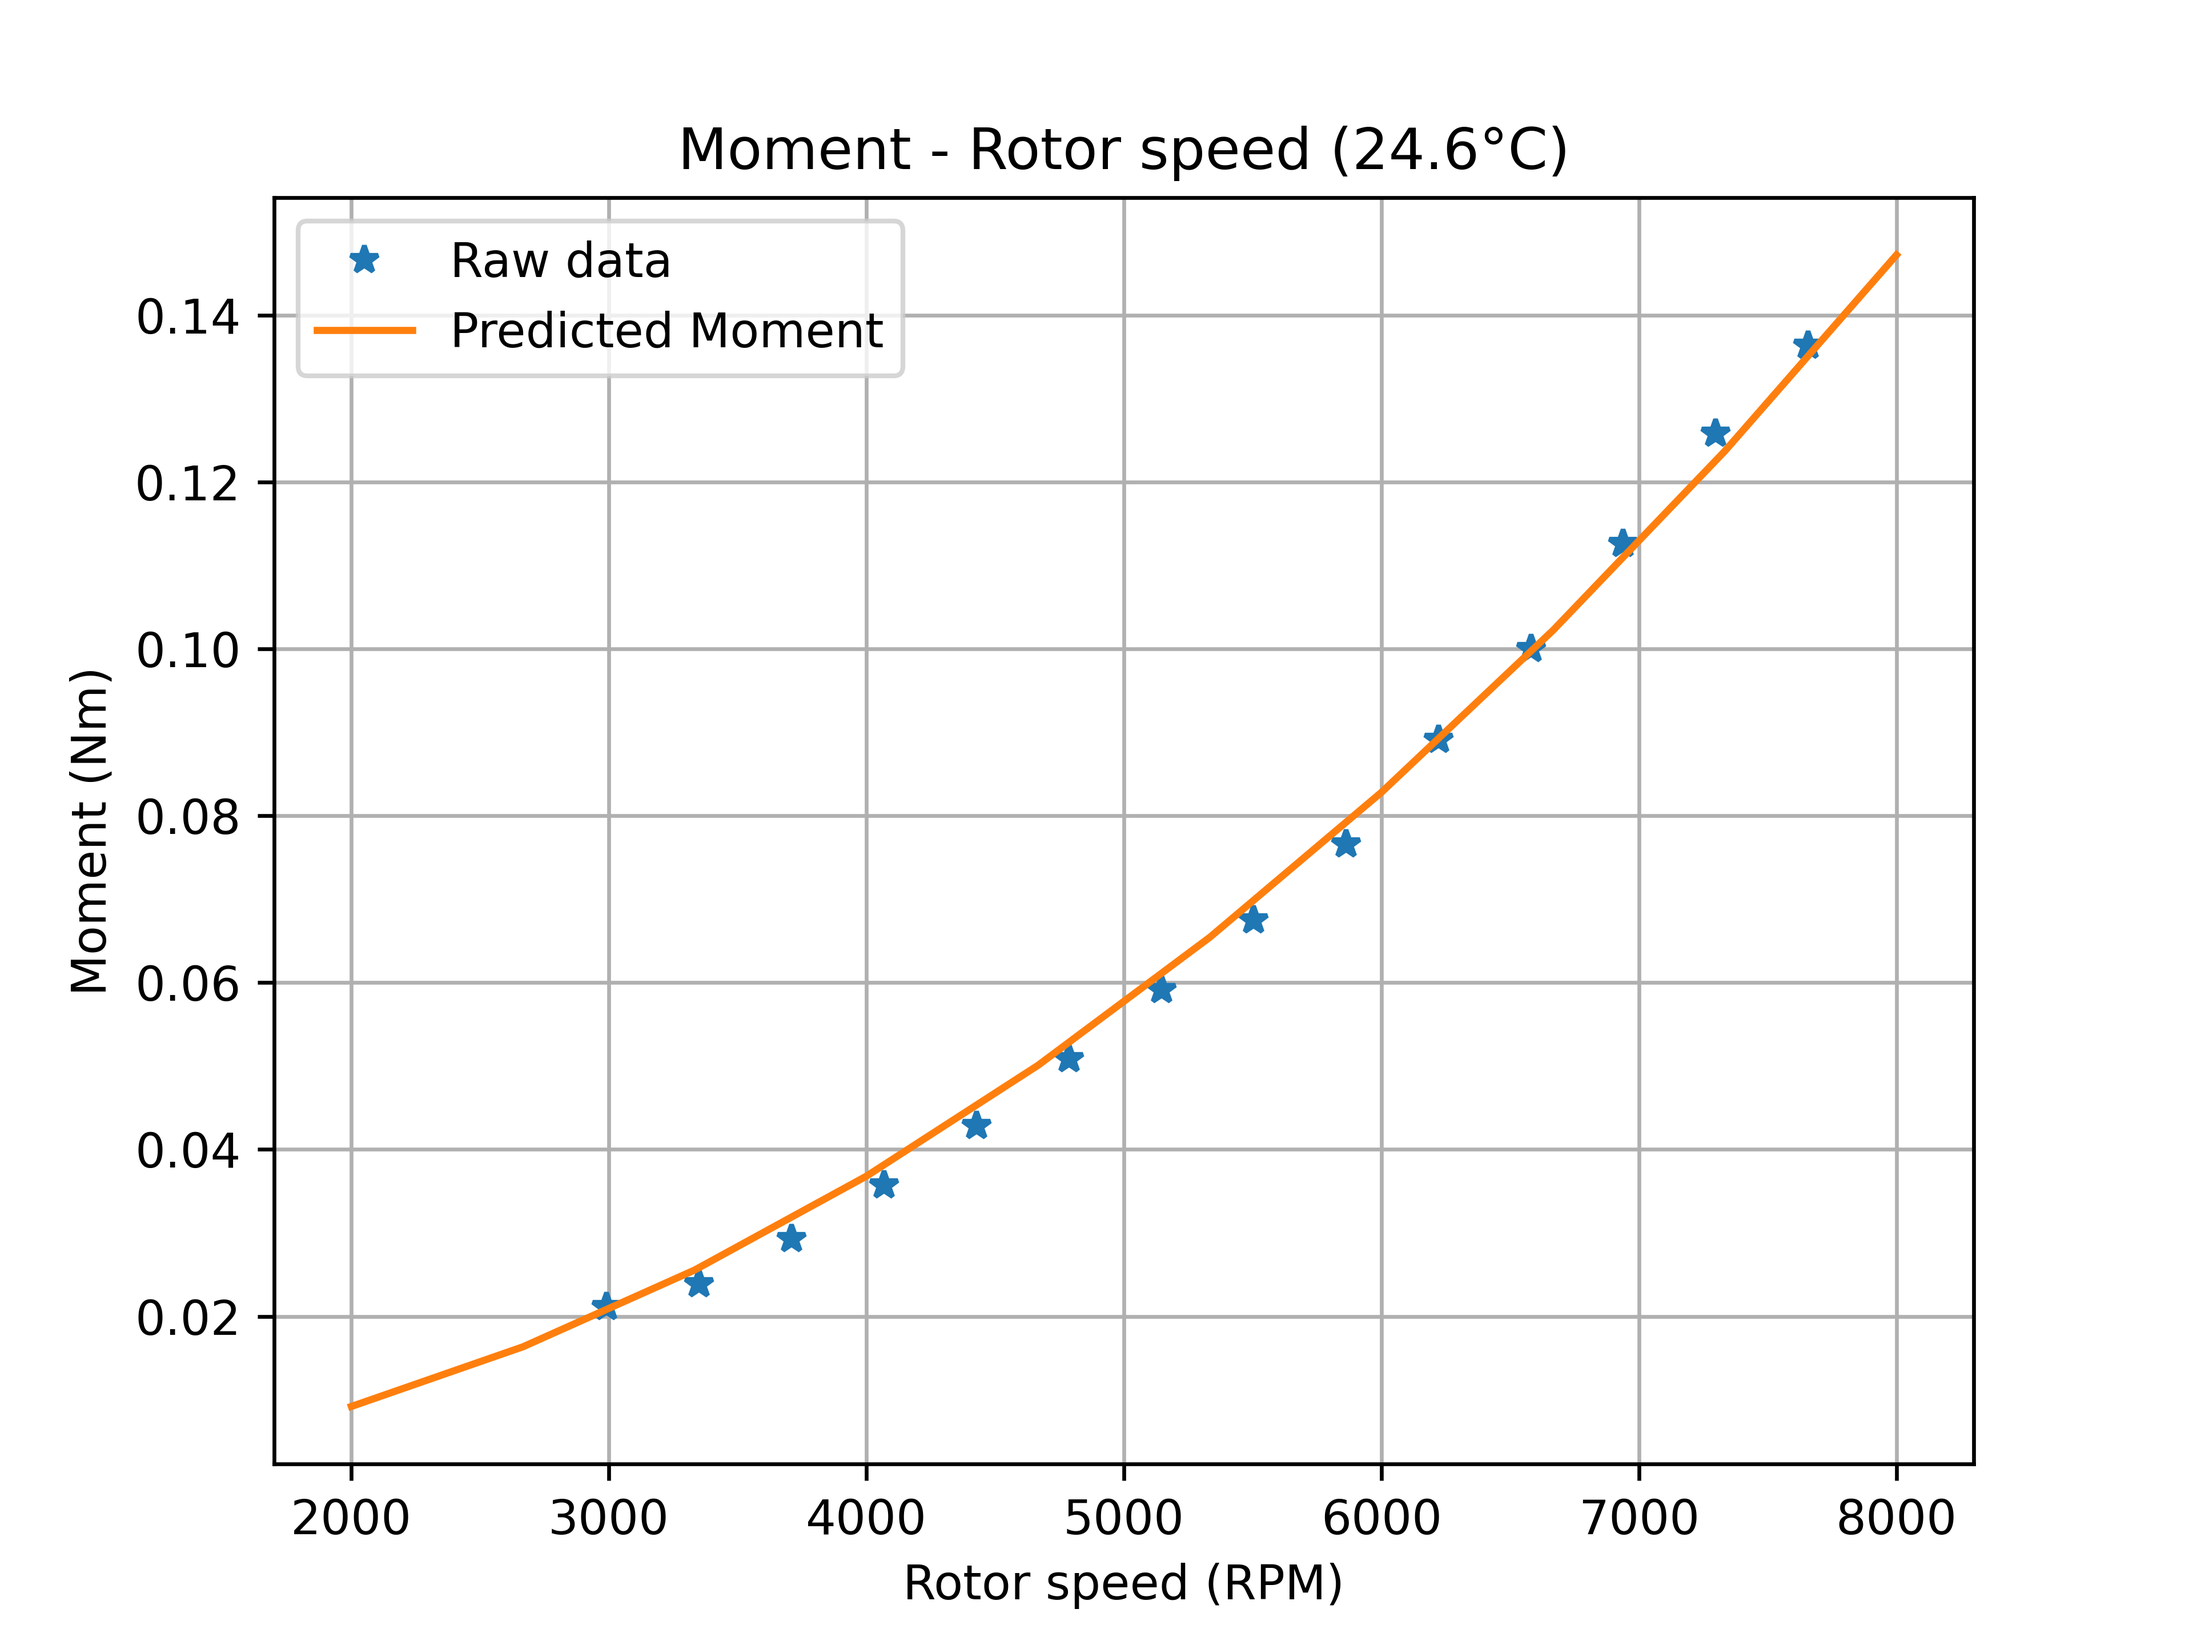
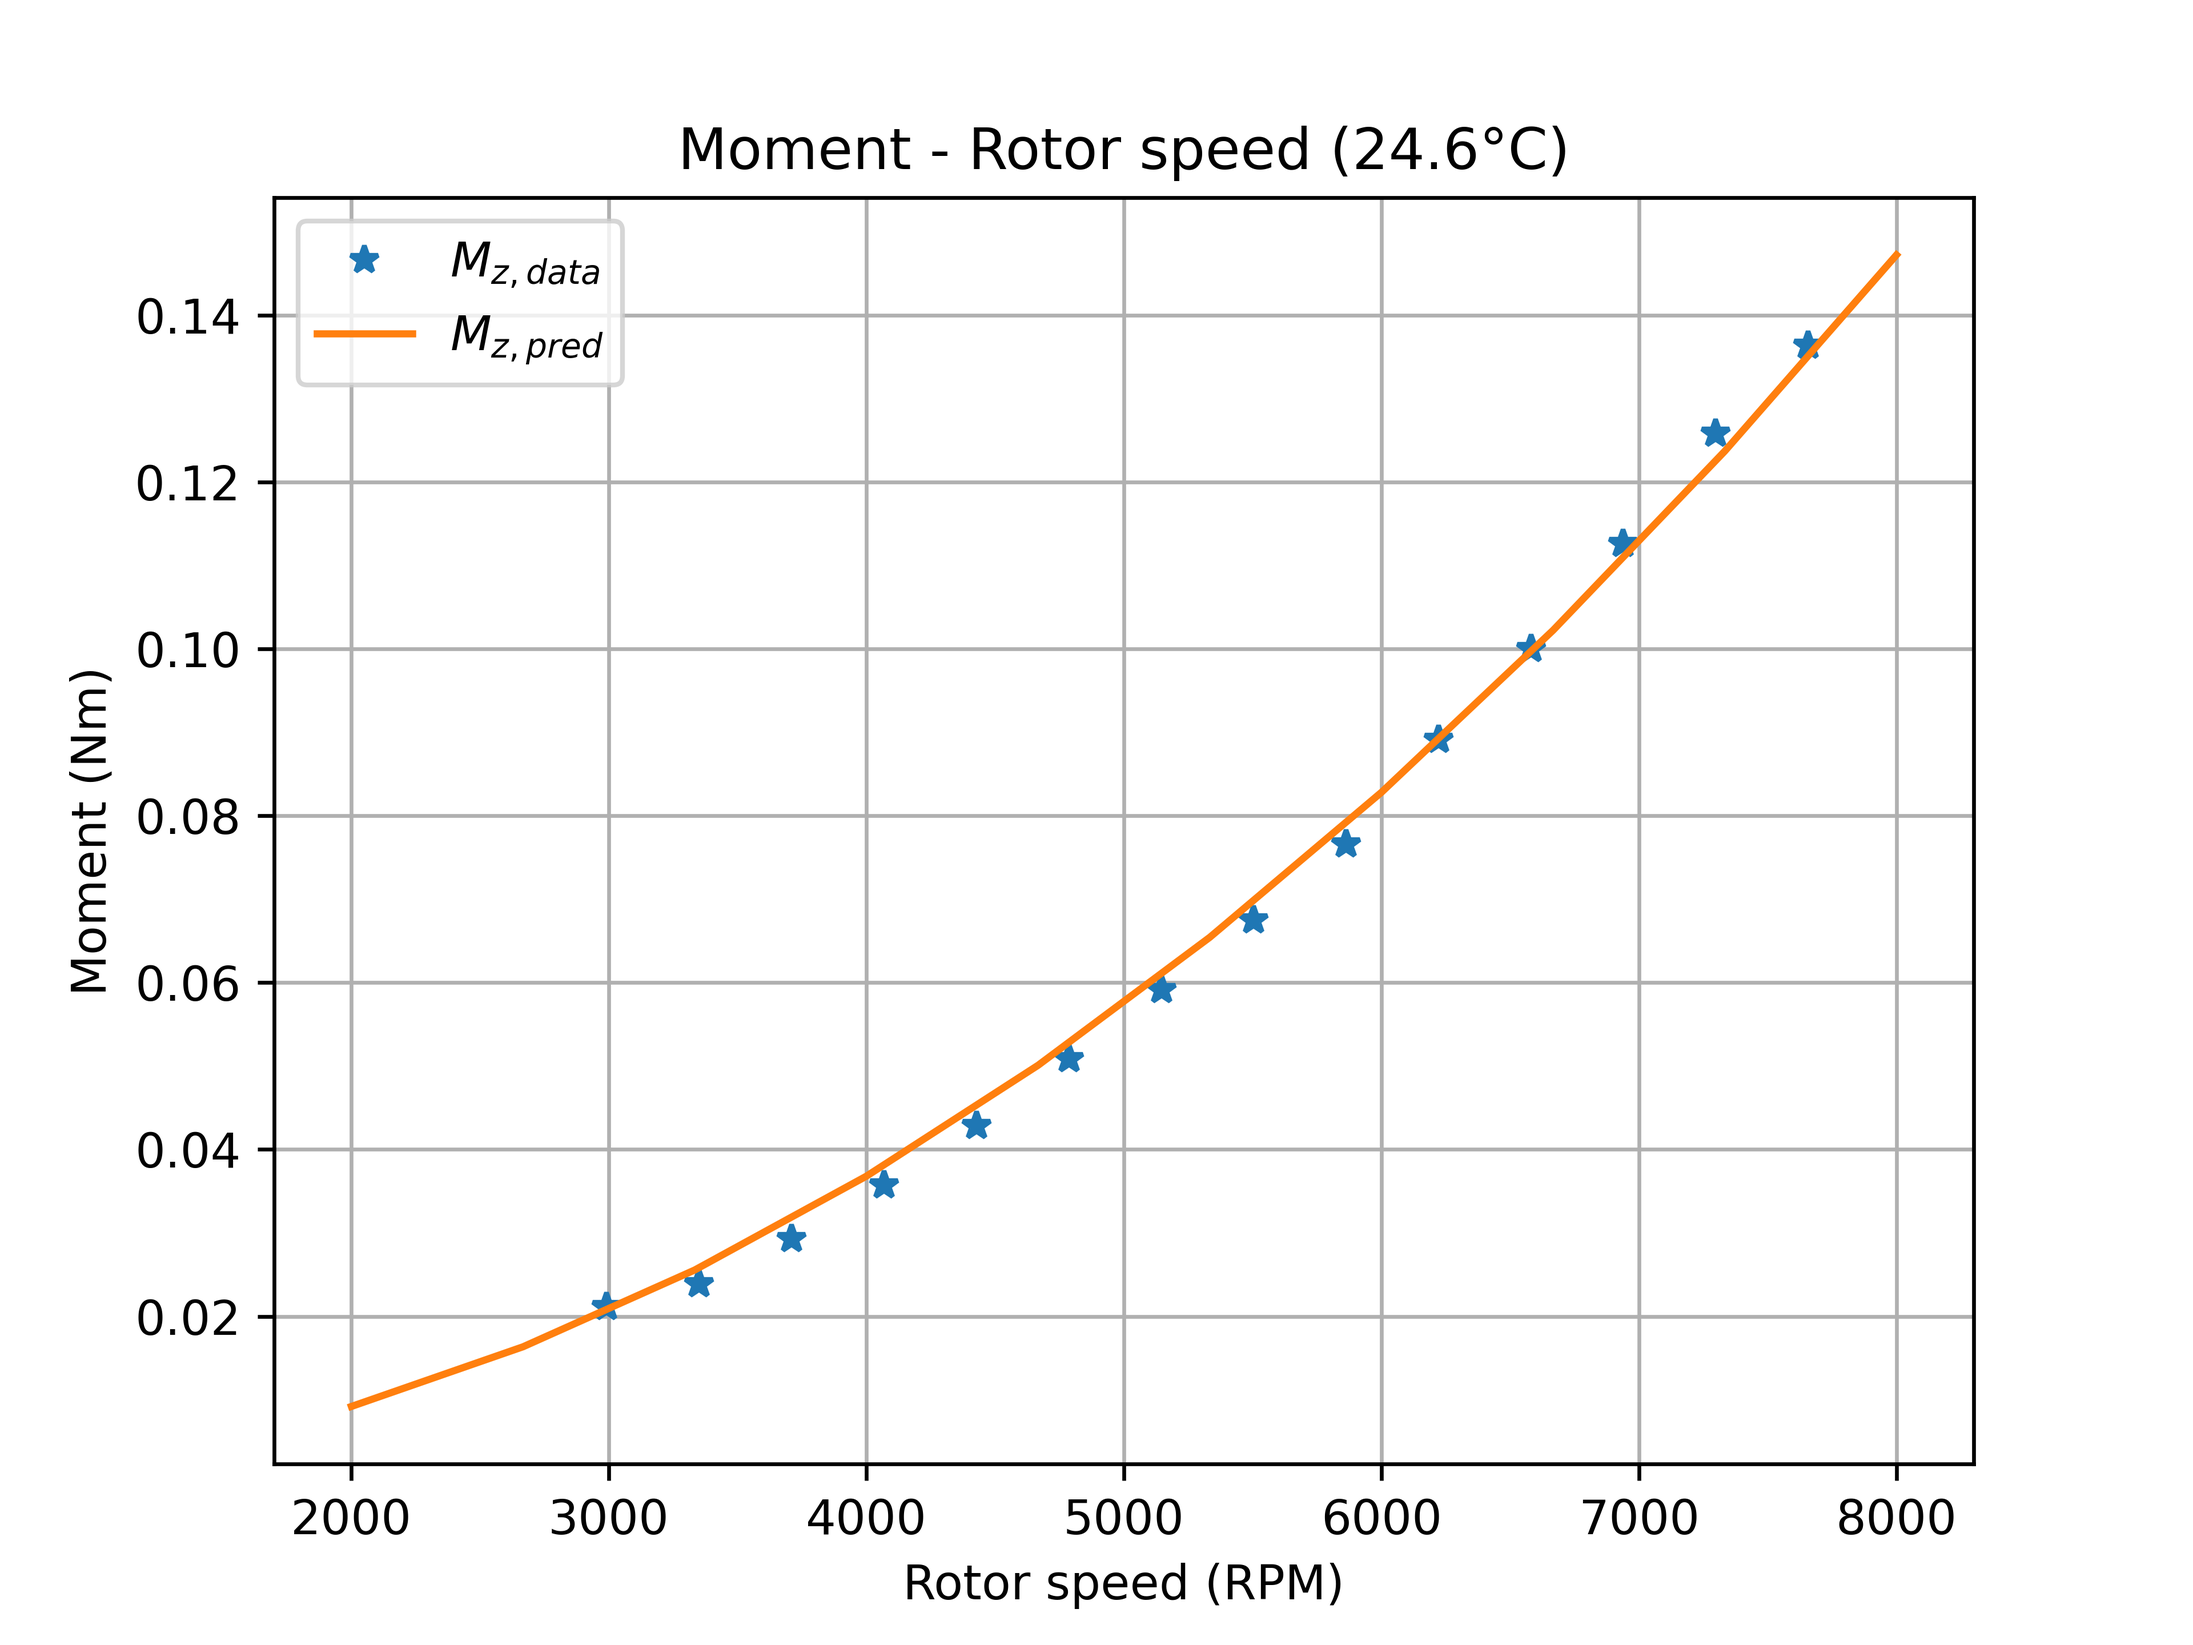
figure modified - label name

Changed region(s): [[0.125, 0.125, 0.4062, 0.25], [0.375, 0.125, 0.4062, 0.1562]]

diff --git a/moment_bag_analysis_sqrd.py b/moment_bag_analysis_sqrd.py
@@ -113,8 +113,8 @@ if __name__ == '__main__':
     test_rpm = np.linspace(2000,8000, 10)
     test_torque = param_opt * test_rpm**2
 
-    plt.plot(actual_rpm_avg, torque_avg, "*", label="Raw data")
-    plt.plot(test_rpm, test_torque, label="Predicted Moment")
+    plt.plot(actual_rpm_avg, torque_avg, "*", label=r"$M_{z,data}$")
+    plt.plot(test_rpm, test_torque, label=r"$M_{z,pred}$")
     plt.legend(loc='best')
     plt.title("Moment - Rotor speed (24.6°C)")
     plt.xlabel("Rotor speed (RPM)")

diff --git a/thrust_mapping_analysis_sqrd.py b/thrust_mapping_analysis_sqrd.py
@@ -114,8 +114,8 @@ if __name__ == '__main__':
     test_rpm = np.linspace(2000,8000, 10)
     test_thrust = param_opt * test_rpm**2
 
-    plt.plot(actual_rpm_avg, thrust_avg, "*", label="Raw data")
-    plt.plot(test_rpm, test_thrust, label="Predicted thrust")
+    plt.plot(actual_rpm_avg, thrust_avg, "*", label=r"$T_{data}$")
+    plt.plot(test_rpm, test_thrust, label=r"$T_{pred}$")
     plt.legend(loc='best')
     plt.title("Thrust - Rotor speed (24.6°C)")
     plt.xlabel("Rotor speed (RPM)")
